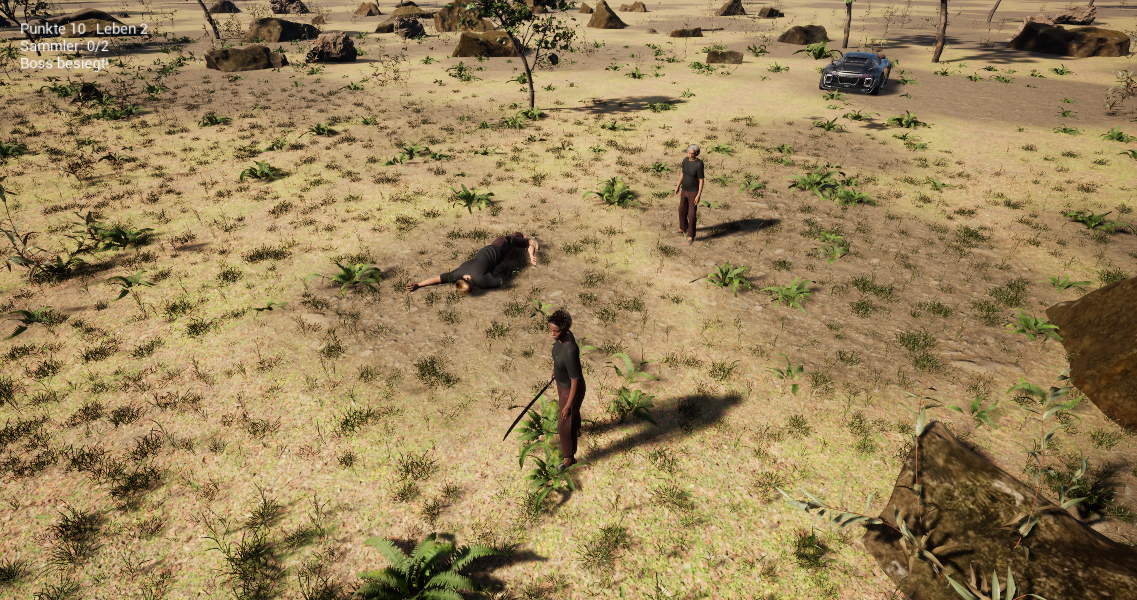
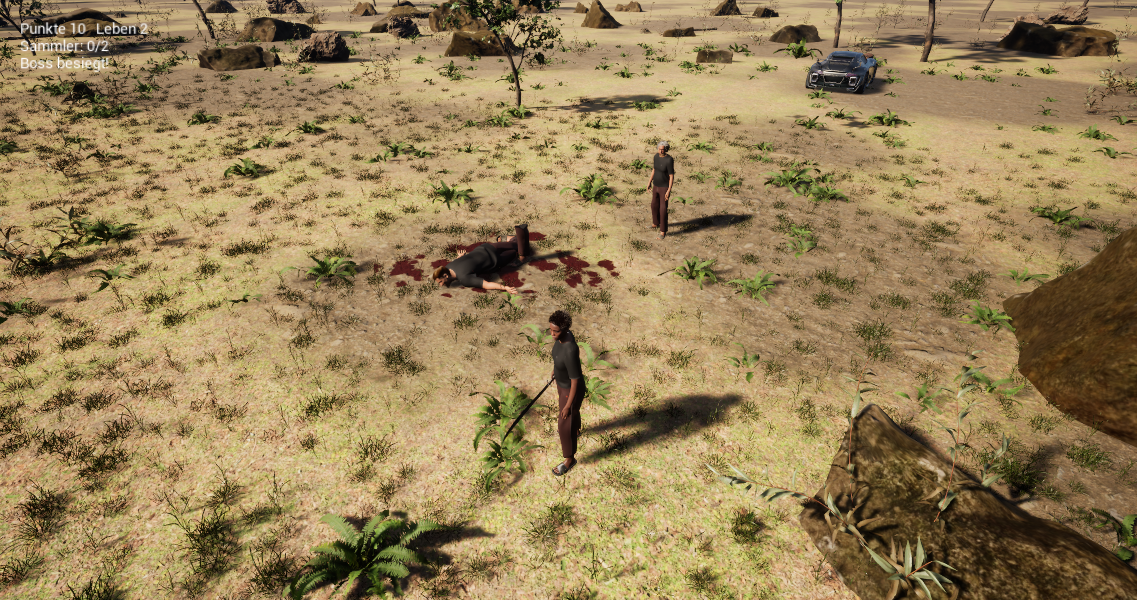
Spiele: Blut liegt sichtbar am Boden, Körper bleibt sauber; GeometryScripting-Plugin
Der Blut-Strahl traf den liegenden Körper statt des Geländes: die Figur wurde
rot eingefärbt, am Boden lag kein Blut. Jetzt trifft er nur Gelände, Körper und
abgetrennte Glieder nehmen keine Boden-Flecken an, die Lache entsteht unter dem
Körper und am Stumpf. GeometryScripting ist in der Plugin-Liste (Glieder-Schnitt
in neuen Projekten). Beleg mit Bild und Rohlog aktualisiert.

diff --git a/src/Trendo.Core/Programs/UnrealGame.cs b/src/Trendo.Core/Programs/UnrealGame.cs
@@ -70,7 +70,7 @@ public static class UnrealGame
     /// <summary>Plugins, die Trendo im Projekt einschaltet: Python/Interchange zum Einrichten der Welt, dazu die Engine-Beispielinhalte
     /// mit Menschfigur samt Geh-/Lauf-/Sprung-Animationen (MoverExamples) und Sportwagen (ChaosModularVehicleExamples) – Teil jeder Unreal-Installation –
     /// und der MetaHuman Creator für den echten Menschen als Spielfigur.</summary>
-    public static readonly string[] Plugins = ["PythonScriptPlugin", "EditorScriptingUtilities", "Interchange", "InterchangeEditor", "MoverExamples", "ChaosModularVehicleExamples", "ChaosModularVehicle", "ChaosVehiclesPlugin", "MetaHumanCharacter"];
+    public static readonly string[] Plugins = ["PythonScriptPlugin", "EditorScriptingUtilities", "Interchange", "InterchangeEditor", "MoverExamples", "ChaosModularVehicleExamples", "ChaosModularVehicle", "ChaosVehiclesPlugin", "MetaHumanCharacter", "GeometryScripting"];
     /// <summary>Eigene Karte, die das Welt-Skript aus der Open-World-Vorlage anlegt.</summary>
     public const string WeltMap = "/Game/Trendo/Welt";
     public const string WeltScriptRel = "Trendo/trendo_welt.py";
@@ -845,6 +845,8 @@ public:
 	bool Ragdoll(const FVector& Impulse);
 	/** Brutale Spiele: ein Glied (Unterarm/Unterschenkel) abtrennen – am Körper ausblenden, ausgeschnittenes Stück fliegt als Physikteil; false ohne Glieder. */
 	bool Sever(const FVector& Push);
+	/** Abgetrennter Knochen (für die Blutlache am Stumpf), sonst NAME_None. */
+	FName SeveredBone = NAME_None;
 	float Stun = 0; bool bDead = false;
 	/** Sekunden, die der Gegner nach dem letzten Sichtkontakt noch sucht (> 0 = alarmiert). */
 	float Alert = 0;
@@ -1180,12 +1182,11 @@ bool ATrendoEnemy::Sever(const FVector& Push)
 	UStaticMeshComponent* M = A->GetStaticMeshComponent(); M->SetMobility(EComponentMobility::Movable); M->SetStaticMesh(Flesh); A->SetActorScale3D(At.GetScale3D());
 	if (Cloth) { UStaticMeshComponent* C = NewObject<UStaticMeshComponent>(A, TEXT("Kleidung")); C->SetStaticMesh(Cloth); C->SetCollisionEnabled(ECollisionEnabled::NoCollision); C->SetupAttachment(M); C->RegisterComponent(); }
 	M->SetCollisionProfileName(TEXT("PhysicsActor")); M->SetUseCCD(true); M->SetSimulatePhysics(true);
-	M->AddImpulse(Push.GetSafeNormal() * 520.f + FVector(0, 0, 320.f), NAME_None, true);
+	M->AddImpulse(Push.GetSafeNormal() * 240.f + FVector(0, 0, 190.f), NAME_None, true); // fliegt kurz und landet in der Nähe
 	M->AddAngularImpulseInDegrees(FVector(FMath::FRandRange(-600.f, 600.f), FMath::FRandRange(-600.f, 600.f), FMath::FRandRange(-300.f, 300.f)), NAME_None, true);
 	A->SetLifeSpan(90.f);
-	// Blut am Stumpf
-	if (UMaterialInterface* Blood = LoadObject<UMaterialInterface>(nullptr, TEXT("/Game/Trendo/Natur/M_TrendoBlut.M_TrendoBlut")))
-		UGameplayStatics::SpawnDecalAttached(Blood, FVector(18, 14, 14), Body3D, Body3D->GetParentBone(FName(*Bone)), FVector::ZeroVector, FRotator(-90, 0, 0), EAttachLocation::SnapToTarget, 120.f);
+	M->SetReceivesDecals(false); if (Cloth) for (UActorComponent* C : A->GetComponents()) if (UPrimitiveComponent* Pc = Cast<UPrimitiveComponent>(C)) Pc->SetReceivesDecals(false);
+	SeveredBone = Body3D->GetParentBone(FName(*Bone)); // Blut fließt am Stumpf auf den Boden (Spielmodus legt die Lache)
 	UE_LOG(LogTemp, Display, TEXT("TRENDO-GLIED abgetrennt=%s Kleidung=%s"), *Bone, Cloth ? TEXT("ja") : TEXT("nein"));
 	return true;
 }
@@ -2035,7 +2036,17 @@ void ATrendoGameMode::Damage(ATrendoEnemy* E)
 	Enemies.Remove(E);
 	if (bBrutal && E->Sever(From)) Severed++; // brutale Spiele: ein Glied wird abgetrennt
 	if (bNone || !E->Ragdoll(From * (bBrutal ? 32000.f : 18000.f))) { E->Destroy(); return; } // ohne Gewalt verschwindet er, sonst fällt er als Körper
-	if (!bNone) SpawnBlood(E->GetActorLocation(), bBrutal ? 1.6f : 1.f);
+	// Bodenflecken nur auf dem Boden: der liegende Körper nimmt keine Boden-Decals an
+	{ TArray<UPrimitiveComponent*> Prims; E->GetComponents(Prims); if (E->Body3D && E->Body3D->GetOwner()) { TArray<UPrimitiveComponent*> More; E->Body3D->GetOwner()->GetComponents(More); Prims.Append(More); }
+	  for (UPrimitiveComponent* P : Prims) P->SetReceivesDecals(false); }
+	if (!bNone) SpawnBlood(E->GetActorLocation(), bBrutal ? 1.2f : 0.8f); // Spritzer am Trefferort
+	// Blutlache dort, wo der Körper nach dem Sturz liegt (nach 1,2 s)
+	if (!bNone && E->Body3D)
+	{
+		TWeakObjectPtr<USkeletalMeshComponent> Body = E->Body3D; const float Size = bBrutal ? 2.4f : 1.5f; const FName Stump = E->SeveredBone; FTimerHandle Th;
+		GetWorldTimerManager().SetTimer(Th, FTimerDelegate::CreateWeakLambda(this, [this, Body, Size, Stump]() { if (!Body.IsValid()) return; SpawnBlood(Body->GetBoneLocation(TEXT("pelvis")), Size);
+			if (!Stump.IsNone()) SpawnBlood(Body->GetBoneLocation(Stump), Size * 0.55f); }), 1.2f, false);
+	}
 	E->SetLifeSpan(30.f);
 }
 
@@ -2312,7 +2323,7 @@ void ATrendoGameMode::SpawnBlood(const FVector& Pos, float Size)
 {
 	UMaterialInterface* M = LoadObject<UMaterialInterface>(nullptr, TEXT("/Game/Trendo/Natur/M_TrendoBlut.M_TrendoBlut")); if (!M) return;
 	FHitResult Hit; FCollisionQueryParams Q; for (ATrendoEnemy* E : Enemies) Q.AddIgnoredActor(E);
-	if (!GetWorld()->LineTraceSingleByChannel(Hit, Pos + FVector(0, 0, 50), Pos - FVector(0, 0, 400), ECC_WorldStatic, Q)) return;
+	if (!GetWorld()->LineTraceSingleByObjectType(Hit, Pos + FVector(0, 0, 50), Pos - FVector(0, 0, 400), FCollisionObjectQueryParams(ECC_WorldStatic), Q)) return; // nur Gelände, nie der liegende Körper
 	FRandomStream R(static_cast<int32>(Pos.X * 7 + Pos.Y));
 	for (int32 i = 0; i < 3; i++) // ein großer Fleck und zwei Spritzer daneben
 	{

diff --git a/tests/Trendo.App.Tests/GameUnrealUiTests.cs b/tests/Trendo.App.Tests/GameUnrealUiTests.cs
@@ -33,7 +33,7 @@ public class GameUnreal_Ui
         await w.GameUnrealCheck(d); Pump();
         Assert.Contains("Epic Games Launcher", w.ProgramMessage(GK));
         var upj = File.ReadAllText(Directory.GetFiles(built, "*.uproject").Single());
-        Assert.Contains("PythonScriptPlugin", upj); Assert.Contains("MoverExamples", upj); Assert.Contains("ChaosModularVehicleExamples", upj); Assert.Contains("\"ChaosModularVehicle\"", upj); Assert.Contains("ChaosVehiclesPlugin", upj);
+        Assert.Contains("PythonScriptPlugin", upj); Assert.Contains("MoverExamples", upj); Assert.Contains("ChaosModularVehicleExamples", upj); Assert.Contains("\"ChaosModularVehicle\"", upj); Assert.Contains("ChaosVehiclesPlugin", upj); Assert.Contains("GeometryScripting", upj);
         Assert.True(File.Exists(Path.Combine(built, "Trendo", "trendo_welt.py")));
         // mit Unreal (Testersatz für die Läufe): Fotomaterialien aus dem Testersatz, Welt einrichten, dann Tests und Start
         var runs = new List<string>(); var fetched = new List<string>();

diff --git a/tests/Trendo.Core.Tests/UnrealGameTests.cs b/tests/Trendo.Core.Tests/UnrealGameTests.cs
@@ -57,6 +57,7 @@ public class UnrealGameTests
             Assert.Contains("class ATrendoEnemy : public ACharacter", File.ReadAllText(Path.Combine(dir, "Source", "Waldlaeufer", "TrendoActors.h")));
             Assert.Contains("AIModule", File.ReadAllText(Path.Combine(dir, "Source", "Waldlaeufer", "Waldlaeufer.Build.cs")));
             Assert.Contains("TRENDO-BODEN", gm); Assert.Contains("TRENDO-KAMPF", gm); Assert.Contains("MM_Death_Front_03_ExtractedRM", actors);
+            Assert.Contains("TRENDO-GLIED", actors); Assert.Contains("HideBoneByName", actors); Assert.Contains("SetReceivesDecals(false)", gm); // Glieder abtrennbar, Blut nur am Boden
             Assert.Contains("bEnableUpdateRateOptimizations = false", actors); // kein Ruckeln/Flackern in der Ferne
             Assert.Equal("normal", lv["violence"]!.GetValue<string>()); // Gewalt-Stufe im Level (Standard normal)
         }

diff --git a/reports/paket01/unreal-glieder-e2e.md b/reports/paket01/unreal-glieder-e2e.md
@@ -3,32 +3,33 @@
 Beim Bau der Menschen schneidet Unreals Geometrie-Skript aus dem MetaHuman des Gegners vier Glieder heraus (Unterarme mit Hand, Unterschenkel mit Fuß): Punkte nach ihrem stärksten Knochen,
 Schnittkante geschlossen, Drehpunkt am Gelenk, Materialien übernommen, Physik-Kollision. Kleidung wird mitgeschnitten, wo sie das Glied bedeckt (Hosenbeine; das T-Shirt ist kurzärmelig).
 
-Im Spiel (nur Gewalt-Stufe „brutal“): beim tödlichen Hieb wird ein Glied am Körper und an der Kleidung ausgeblendet, das ausgeschnittene Stück fliegt an genau der Stelle als Physikteil in Schlagrichtung weg, Blut am Stumpf; der Körper fällt als Ragdoll.
+Im Spiel (nur Gewalt-Stufe „brutal“): beim tödlichen Hieb wird ein Glied am Körper und an der Kleidung ausgeblendet, das ausgeschnittene Stück fliegt an genau der Stelle als Physikteil in Schlagrichtung weg, der Körper fällt als Ragdoll; Blutspritzer am Trefferort, nach dem Sturz eine Blutlache unter dem Körper und eine kleinere am Stumpf. Blut liegt nur auf dem Gelände (Treffer-Strahl nur auf Gelände, der Körper nimmt keine Boden-Flecken an).
 
 ## Messung
 - Bau: 6 abtrennbare Stücke (4 Körper, 2 Hosenbeine), Schnitt je Glied unter 1 s.
-- Kampf-Probe: abgetrennt=lowerarm_l (vorher in einem Lauf calf_r mit Hosenbein), Ragdoll liegt (Becken 20 cm über dem Boden).
+- Kampf-Probe: abgetrennt=calf_l mit Hosenbein (frühere Läufe lowerarm_l, lowerarm_r, calf_r), Ragdoll liegt (Becken 20 cm über dem Boden), 9 Blutflecken.
+- Behobener Fehler: vorher traf der Blut-Strahl den liegenden Körper, die ganze Figur wurde rot eingefärbt und am Boden war kein Blut; jetzt Blutlache sichtbar, Kleidung unverändert.
 
-Bild: unreal-glieder.png (Kampfort von schräg oben)
+Bild: unreal-glieder.png (Kampfort von schräg oben: Blutlache, liegender Gegner, abgetrennter Unterschenkel daneben)
 
 ## Ehrlich offen
-- Im Bild ist das abgetrennte Stück kaum zu sehen (fliegt weg) und das Blut zu klein – Blutlache unter dem Körper, sichtbare Wunde am Stumpf und Landeplatz des Glieds werden verbessert.
+- Die Blutflecken sind noch einheitlich dunkelrot (kein Eintrocknen, kein Versickern im Boden); ein Wagen-Lauf im selben Prüflauf endete bei 1 km/h nach 26,5 m (Aufprall, nicht Teil dieser Änderung).
 - Kopf/Rumpf werden nicht abgetrennt; Schnittfläche hat noch Hautmaterial statt Wunde.
 
 ## SHA-256
-- unreal-glieder.png: 20e5819a743667c6c298b1ca5cf133c43a5aea0dbf31e954b177463e9413a999
+- unreal-glieder.png: d53e3b3fe0455f346501bc671d54ae1b8b4b6e8790458f4525e6d256368a6f8a
 
 ## Rohlog-Auszüge
 ```
 Result: Succeeded
 LogTemp: Display: TRENDO-FIGUR MetaHuman=ja (BP_Waldlaeuferin_C) Mensch=ja
 LogTrendo: Display: TRENDO-BODEN Gegner geht=ja Abstand Füße–Boden=2.2 cm
-LogTrendo: Display: TRENDO-GEGNER alarmiert=ja Abstand vorher=1100 nachher=3586 Leben 3→2 verfolgt und angegriffen
-LogTemp: Display: TRENDO-GLIED abgetrennt=lowerarm_l Kleidung=nein
+LogTrendo: Display: TRENDO-GEGNER alarmiert=ja Abstand vorher=1100 nachher=3585 Leben 3→2 verfolgt und angegriffen
+LogTemp: Display: TRENDO-GLIED abgetrennt=calf_l Kleidung=ja
 LogTrendo: Display: TRENDO-KAMPF Körper: Becken Z=20, Gegner Z=115, Simulation=ja, Physik-Körper=22
-LogTrendo: Display: TRENDO-KAMPF Gegner besiegt=ja Ragdoll=ja Becken über Boden=20 cm (liegt) Blut=3 abgetrennt=1 Gewalt=brutal
+LogTrendo: Display: TRENDO-KAMPF Gegner besiegt=ja Ragdoll=ja Becken über Boden=20 cm (liegt) Blut=9 abgetrennt=1 Gewalt=brutal
 LogTrendo: Display: TRENDO-WAGEN eingestiegen
-LogTrendo: Display: TRENDO-WAGEN gesteuert=ja Klasse=TrendoCar Tempo=59 km/h Strecke=41.5 m Raddrehung=206° (Reifen drehen sich) Gang=2
+LogTrendo: Display: TRENDO-WAGEN gesteuert=ja Klasse=TrendoCar Tempo=1 km/h Strecke=26.5 m Raddrehung=337° (Reifen drehen sich) Gang=1
 LogTrendo: Display: TRENDO-WAGEN ausgestiegen, Figur=sichtbar
 LogTrendo: Display: TRENDO-SPIEL Welt=openworld Level=0 Objekte=8 Gegner=0 Natur=125952 Figur=ja Boden=ja Z=92
 LogTrendo: Display: TRENDO-OK Spiel läuft, Figur steht
